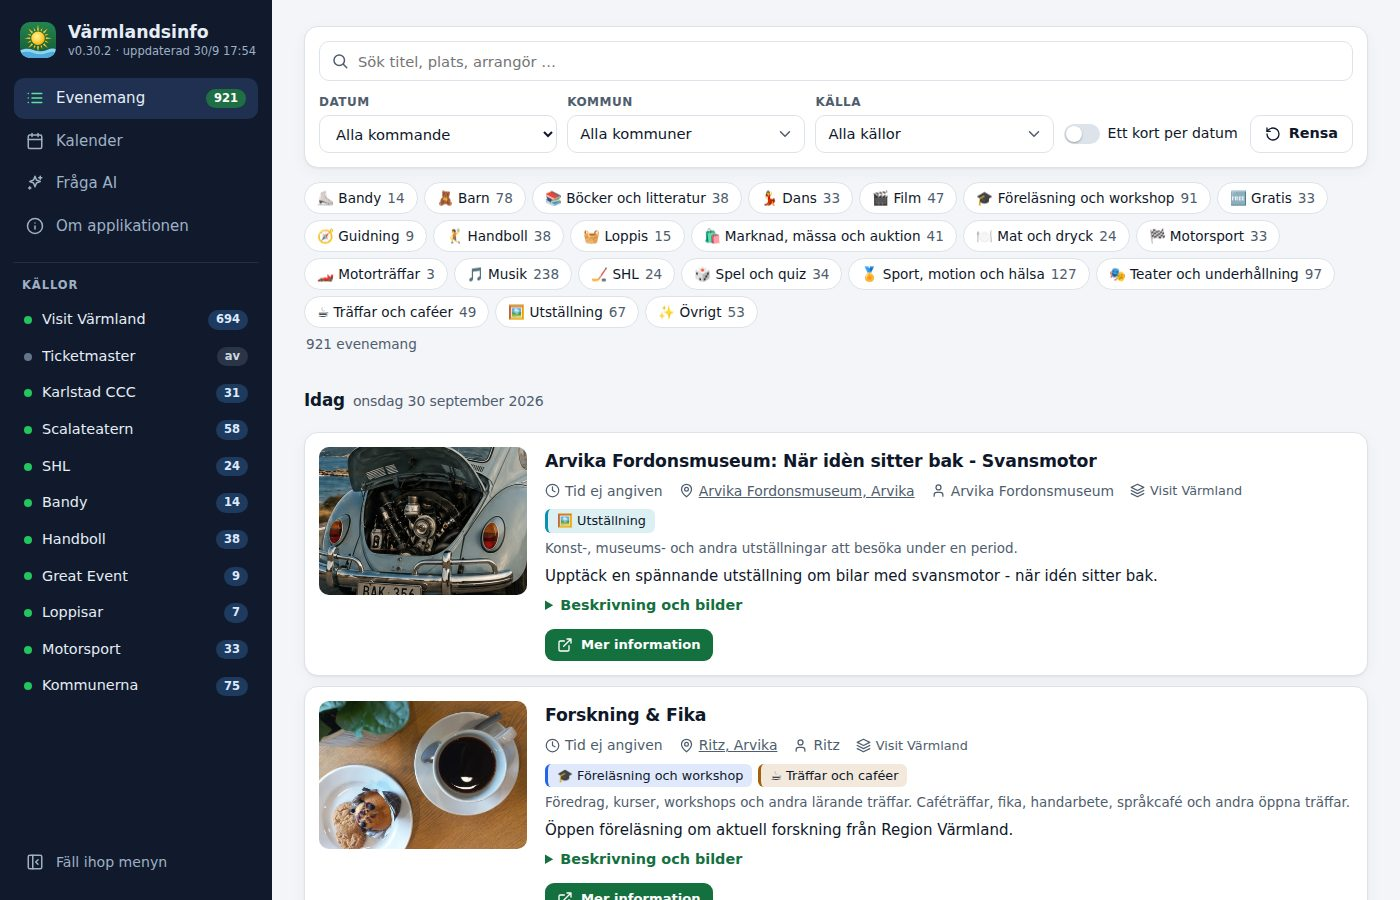
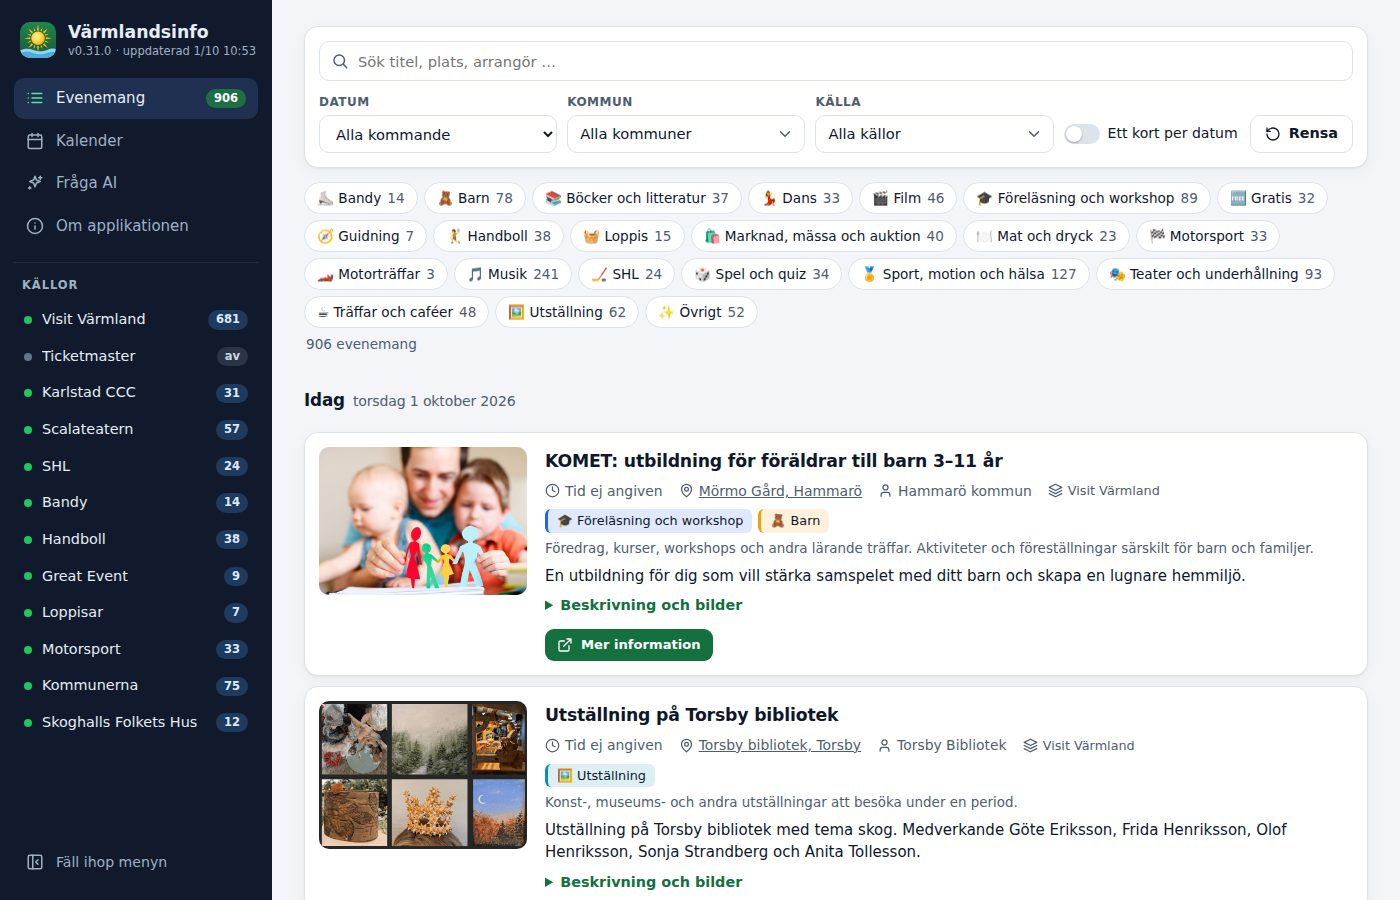
Skärmdumparna med v0.31.0 (#97)
Skärmdumparna visar v0.31.0 och källan Skoghalls Folkets Hus i menyn. Tagna
mot sparad data, utan ny hämtning från källorna.

Closes #97

Claude-Session: https://claude.ai/code/session_01Ngi4DpZLn2kVoxuKv1qdu3

diff --git a/CLAUDE.md b/CLAUDE.md
@@ -104,7 +104,7 @@ gröna och det finns inga andra grenar eller öppna PR:er.
   Kommunerna (#79, v0.28.0), bara kommuner i filtret Kommun (#81, v0.28.1), arkitekturbilden med 13 källor och
   aktuella kodhänvisningar (#80, v0.28.2), källan Handboll och arkitekturbilden med 14 källor (#82, v0.29.0) och
   skärmdumparna med Handboll (#83).
-- **Inte släppt:** inget. v0.31.0 innehåller den nya källan Skoghalls Folkets Hus och `merge.same_slot` (#96),
+- **Inte släppt** (bara dokumentation): skärmdumparna med v0.31.0 (#97). v0.31.0 innehåller den nya källan Skoghalls Folkets Hus och `merge.same_slot` (#96),
   Visit Värmlands kommun ur platsen först och `merge.duplicate_listing` (#95) och arkitekturbilden med 15 källor.
   v0.30.3 innehåller arkitekturbilden och skärmdumparna efter säkerhetsarbetet (#94). v0.30.1 innehåller #91 (härdad container i `docker-compose.yaml`, `apt-get upgrade` i
   `Dockerfile`, flödet `security.yml` med pip-audit och Trivy varje måndag, `SECURITY.md`) och v0.30.2 råden för

diff --git a/CHANGELOG.md b/CHANGELOG.md
@@ -6,6 +6,9 @@ Formatet följer [Keep a Changelog](https://keepachangelog.com/sv/1.1.0/) och pr
 
 ## [Unreleased]
 
+### Dokumentation
+- Skärmdumparna visar v0.31.0 och källan Skoghalls Folkets Hus (#97).
+
 ## [0.31.0] - 2026-10-01
 
 ### Tillagt
